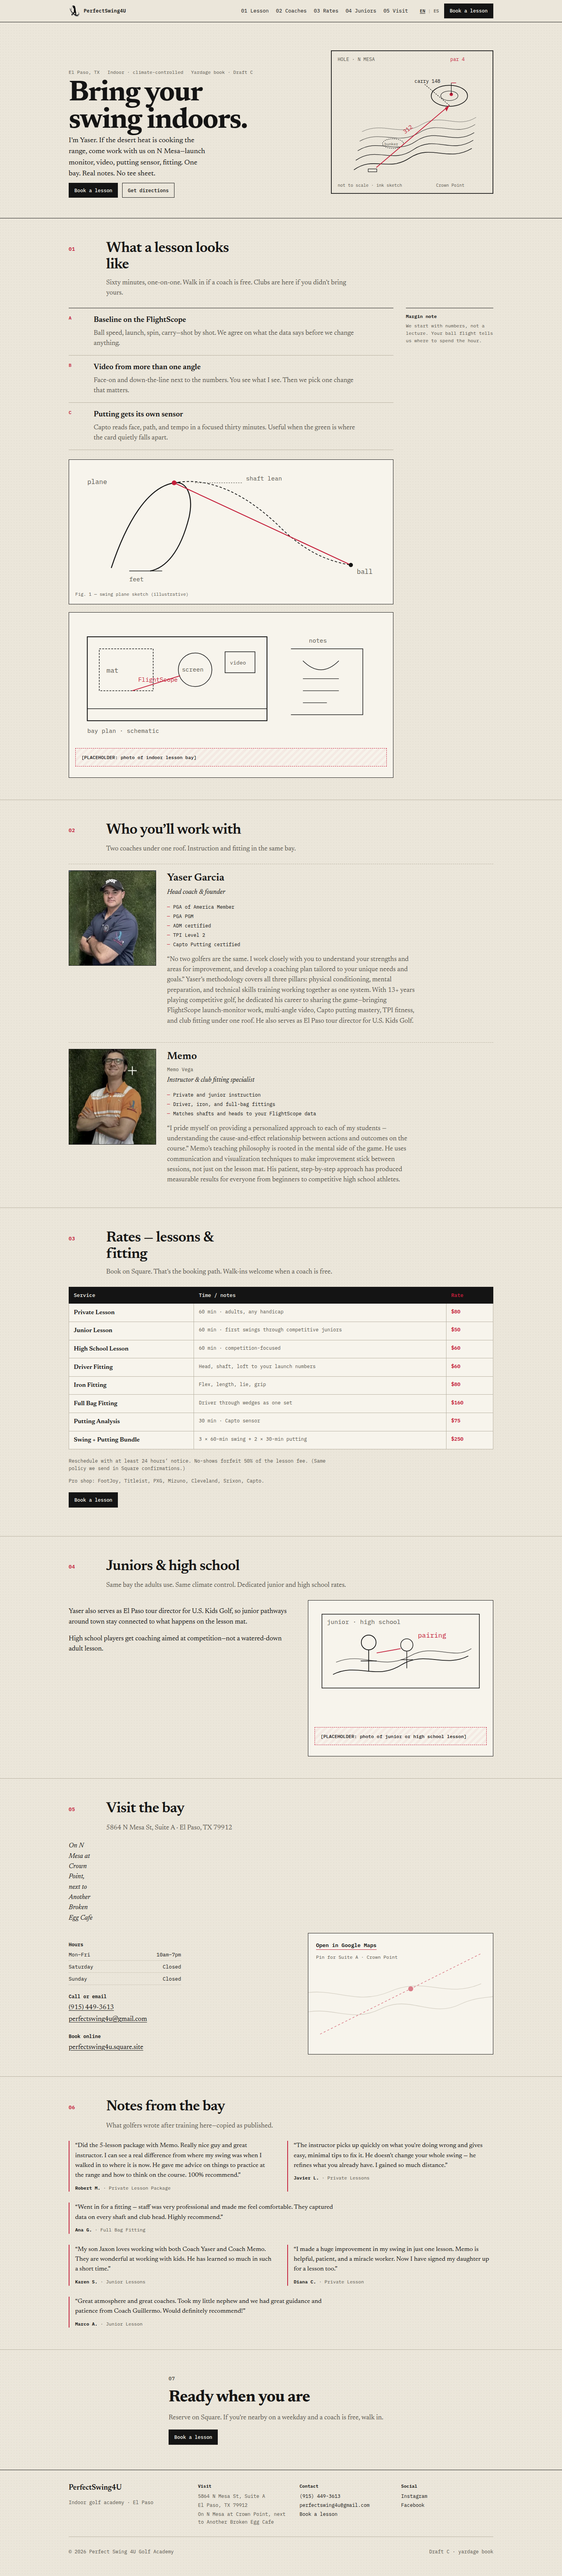
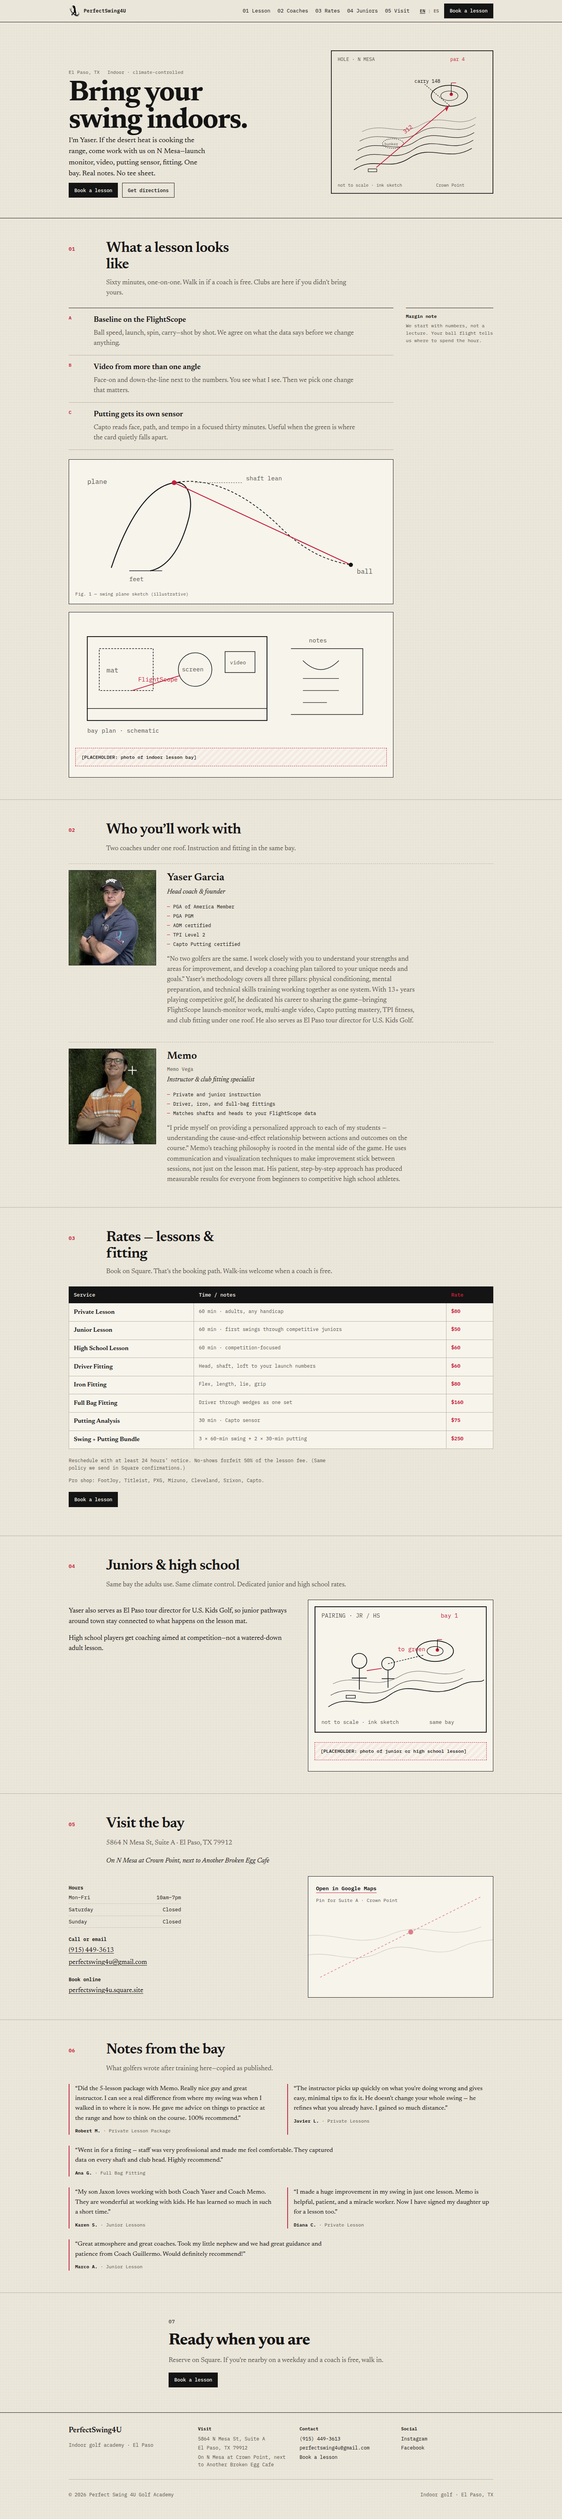
Craft pass on Draft C: visit landmark, header, ES, scroll
Move landmark into the content column, fix sticky-header jump
offset (especially with the mobile menu), rebuild the 390px header
with a full-width Book bar, drop process labels, finish Spanish nav
and hero lead, and densify the junior pairing sketch.

diff --git a/index.html b/index.html
@@ -101,6 +101,9 @@
           </svg>
         </button>
       </div>
+      <div class="header-cta-bar">
+        <a class="btn" href="https://perfectswing4u.square.site/" data-i18n="nav.book">Book a lesson</a>
+      </div>
     </div>
   </header>
 
@@ -111,7 +114,6 @@
           <p class="cover-meta">
             <span data-i18n="cover.meta1">El Paso, TX</span>
             <span data-i18n="cover.meta2">Indoor · climate-controlled</span>
-            <span data-i18n="cover.meta3">Yardage book · Draft C</span>
           </p>
           <h1 id="cover-title" data-i18n="cover.h1">Bring your swing indoors.</h1>
           <p class="cover-lead" data-i18n="cover.lead">
@@ -359,17 +361,28 @@
             <p data-i18n="h04.p2">High school players get coaching aimed at competition—not a watered-down adult lesson.</p>
           </div>
           <div class="illus-frame">
-            <svg viewBox="0 0 280 180" fill="none" xmlns="http://www.w3.org/2000/svg" aria-hidden="true">
-              <rect x="12" y="12" width="256" height="120" stroke="#141414"/>
-              <path d="M30 110C70 90 100 120 140 95C180 70 210 100 250 80" stroke="#141414" stroke-width="1.1"/>
-              <path d="M35 90C80 72 110 105 155 80C195 58 225 88 255 68" stroke="#141414" stroke-width="0.9" opacity="0.7"/>
-              <circle cx="88" cy="58" r="12" stroke="#141414" stroke-width="1.2"/>
-              <path d="M88 70V105M75 88H101" stroke="#141414" stroke-width="1.2"/>
-              <circle cx="150" cy="62" r="10" stroke="#141414"/>
-              <path d="M150 72V100M140 86H160" stroke="#141414"/>
-              <path d="M101 75L140 68" stroke="#c41e3a" stroke-width="1.2"/>
-              <text x="168" y="50" fill="#c41e3a" font-family="IBM Plex Mono, monospace" font-size="11">pairing</text>
-              <text x="20" y="28" fill="#5a574f" font-family="IBM Plex Mono, monospace" font-size="10">junior · high school</text>
+            <svg viewBox="0 0 300 220" fill="none" xmlns="http://www.w3.org/2000/svg" aria-hidden="true">
+              <rect x="0.75" y="0.75" width="298.5" height="218.5" stroke="#141414" stroke-width="1.5"/>
+              <text x="12" y="20" fill="#5a574f" font-family="IBM Plex Mono, monospace" font-size="10">PAIRING · JR / HS</text>
+              <text x="220" y="20" fill="#c41e3a" font-family="IBM Plex Mono, monospace" font-size="10">bay 1</text>
+              <path d="M24 175C60 150 90 185 130 155C170 125 200 165 250 140C275 125 290 135 295 128" stroke="#141414" stroke-width="1.2"/>
+              <path d="M28 155C68 132 98 168 140 140C180 112 210 150 258 125" stroke="#141414" stroke-width="1" opacity="0.7"/>
+              <path d="M32 135C72 115 105 148 148 122C188 98 218 132 262 110" stroke="#141414" stroke-width="0.9" opacity="0.5"/>
+              <ellipse cx="210" cy="78" rx="32" ry="18" stroke="#141414" stroke-width="1.3"/>
+              <ellipse cx="210" cy="78" rx="14" ry="8" stroke="#141414"/>
+              <circle cx="214" cy="76" r="3" fill="#c41e3a"/>
+              <path d="M214 76V58" stroke="#141414"/>
+              <path d="M214 58h8" stroke="#c41e3a" stroke-width="1.2"/>
+              <circle cx="78" cy="95" r="13" stroke="#141414" stroke-width="1.3"/>
+              <path d="M78 108V145M65 125H91" stroke="#141414" stroke-width="1.3"/>
+              <circle cx="128" cy="100" r="11" stroke="#141414" stroke-width="1.2"/>
+              <path d="M128 111V142M117 126H139" stroke="#141414" stroke-width="1.2"/>
+              <path d="M91 112L117 108" stroke="#c41e3a" stroke-width="1.3"/>
+              <path d="M128 100L190 85" stroke="#141414" stroke-width="1" stroke-dasharray="3 2"/>
+              <text x="145" y="78" fill="#c41e3a" font-family="IBM Plex Mono, monospace" font-size="10">to green</text>
+              <rect x="55" y="155" width="16" height="5" stroke="#141414"/>
+              <text x="12" y="205" fill="#5a574f" font-family="IBM Plex Mono, monospace" font-size="9">not to scale · ink sketch</text>
+              <text x="200" y="205" fill="#5a574f" font-family="IBM Plex Mono, monospace" font-size="9">same bay</text>
             </svg>
             <p class="placeholder" role="note" data-i18n="ph.junior">[PLACEHOLDER: photo of junior or high school lesson]</p>
           </div>
@@ -498,7 +511,7 @@
       </div>
       <div class="footer-bottom">
         <p>© <span id="year">2026</span> Perfect Swing 4U Golf Academy</p>
-        <p data-i18n="footer.note">Draft C · yardage book</p>
+        <p data-i18n="footer.note">Indoor golf · El Paso, TX</p>
       </div>
     </div>
   </footer>

diff --git a/i18n.js b/i18n.js
@@ -11,7 +11,6 @@ window.PS4U_I18N = {
     "nav.menuClose": "Close menu",
     "cover.meta1": "El Paso, TX",
     "cover.meta2": "Indoor · climate-controlled",
-    "cover.meta3": "Yardage book · Draft C",
     "cover.h1": "Bring your swing indoors.",
     "cover.lead": "I’m Yaser. If the desert heat is cooking the range, come work with us on N Mesa—launch monitor, video, putting sensor, fitting. One bay. Real notes. No tee sheet.",
     "cover.directions": "Get directions",
@@ -109,23 +108,22 @@ window.PS4U_I18N = {
     "footer.visit": "Visit",
     "footer.contact": "Contact",
     "footer.social": "Social",
-    "footer.note": "Draft C · yardage book"
+    "footer.note": "Indoor golf · El Paso, TX"
   },
   es: {
     "skip": "Saltar al contenido",
     "nav.lesson": "01 Clase",
-    "nav.coaches": "02 Coaches",
+    "nav.coaches": "02 Entrenadores",
     "nav.pricing": "03 Tarifas",
-    "nav.juniors": "04 Juniors",
+    "nav.juniors": "04 Jóvenes",
     "nav.visit": "05 Visítanos",
     "nav.book": "Reservar clase",
     "nav.menu": "Abrir menú",
     "nav.menuClose": "Cerrar menú",
     "cover.meta1": "El Paso, TX",
     "cover.meta2": "Bajo techo · clima controlado",
-    "cover.meta3": "Yardage book · Borrador C",
     "cover.h1": "Trae tu swing adentro.",
-    "cover.lead": "Soy Yaser. Si el calor del desierto está cocinando el range, ven a trabajar con nosotros en N Mesa—launch monitor, video, sensor de putting, fitting. Una bahía. Notas reales. Sin tee sheet.",
+    "cover.lead": "Soy Yaser. Si el calor del desierto está cocinando la práctica, ven a trabajar con nosotros en N Mesa—monitor de lanzamiento, video, sensor de putting y ajuste de palos. Una bahía. Notas reales. Sin hoja de tee times.",
     "cover.directions": "Cómo llegar",
     "h01.num": "01",
     "h01.title": "Cómo es una clase",
@@ -221,6 +219,6 @@ window.PS4U_I18N = {
     "footer.visit": "Visítanos",
     "footer.contact": "Contacto",
     "footer.social": "Social",
-    "footer.note": "Borrador C · yardage book"
+    "footer.note": "Golf bajo techo · El Paso, TX"
   }
 };

diff --git a/styles.css b/styles.css
@@ -25,6 +25,14 @@
 
 html {
   scroll-behavior: smooth;
+  scroll-padding-top: 4rem;
+}
+
+@media (max-width: 520px) {
+  html {
+    /* sticky header + full-width Book bar */
+    scroll-padding-top: 6.5rem;
+  }
 }
 
 @media (prefers-reduced-motion: reduce) {
@@ -108,8 +116,9 @@ a:hover {
   display: flex;
   align-items: center;
   justify-content: space-between;
-  gap: 0.75rem;
+  gap: 0.5rem;
   min-height: 3.5rem;
+  flex-wrap: wrap;
 }
 
 .brand {
@@ -244,15 +253,55 @@ a:hover {
 }
 
 .header-cta {
-  display: inline-flex;
-  min-height: 2.2rem;
-  padding: 0.35rem 0.7rem;
-  font-size: 0.72rem;
+  display: none;
+}
+
+/* Narrow phones: logo + lang + menu on row 1; full-width Book on row 2 */
+@media (max-width: 520px) {
+  .brand-text {
+    display: none;
+  }
+
+  .header-actions {
+    margin-left: auto;
+  }
+
+  .header-cta-bar {
+    display: block;
+    width: 100%;
+    border-top: 1px solid var(--rule);
+  }
+
+  .header-cta-bar .btn {
+    display: flex;
+    width: 100%;
+    border: 0;
+    border-radius: 0;
+    min-height: 2.35rem;
+  }
+}
+
+@media (min-width: 521px) {
+  .header-cta {
+    display: inline-flex;
+    min-height: 2.2rem;
+    padding: 0.35rem 0.7rem;
+    font-size: 0.72rem;
+    white-space: nowrap;
+  }
+
+  .header-cta-bar {
+    display: none;
+  }
 }
 
 @media (min-width: 900px) {
   .nav-toggle {
     display: none;
+  }
+
+  .header-inner {
+    flex-wrap: nowrap;
   }
 
   .site-nav {
@@ -395,7 +444,8 @@ a:hover {
     align-items: start;
   }
 
-  .hole-head .hole-deck {
+  .hole-head .hole-deck,
+  .hole-head .landmark {
     grid-column: 2;
   }
 }

diff --git a/main.js b/main.js
@@ -67,6 +67,45 @@
   var year = document.getElementById("year");
   if (year) year.textContent = String(new Date().getFullYear());
 
+  function scrollToId(id) {
+    var el = document.getElementById(id);
+    if (!el) return;
+    var header = document.querySelector(".site-header");
+    var pad = (header ? header.offsetHeight : 64) + 10;
+    var top = el.getBoundingClientRect().top + window.pageYOffset - pad;
+    window.scrollTo(0, Math.max(0, top));
+  }
+
+  document.querySelectorAll('a[href^="#"]').forEach(function (link) {
+    link.addEventListener("click", function (e) {
+      var id = link.getAttribute("href").slice(1);
+      if (!id) return;
+      var target = document.getElementById(id);
+      if (!target) return;
+      e.preventDefault();
+      if (nav) {
+        nav.classList.remove("is-open");
+        if (toggle) {
+          toggle.setAttribute("aria-expanded", "false");
+          var pack = dict[document.documentElement.lang === "es" ? "es" : "en"];
+          if (pack["nav.menu"]) toggle.setAttribute("aria-label", pack["nav.menu"]);
+        }
+      }
+      history.pushState(null, "", "#" + id);
+      requestAnimationFrame(function () {
+        requestAnimationFrame(function () {
+          scrollToId(id);
+        });
+      });
+    });
+  });
+
+  if (location.hash && location.hash.length > 1) {
+    requestAnimationFrame(function () {
+      scrollToId(location.hash.slice(1));
+    });
+  }
+
   var initial = "en";
   try {
     var saved = localStorage.getItem(storageKey);
